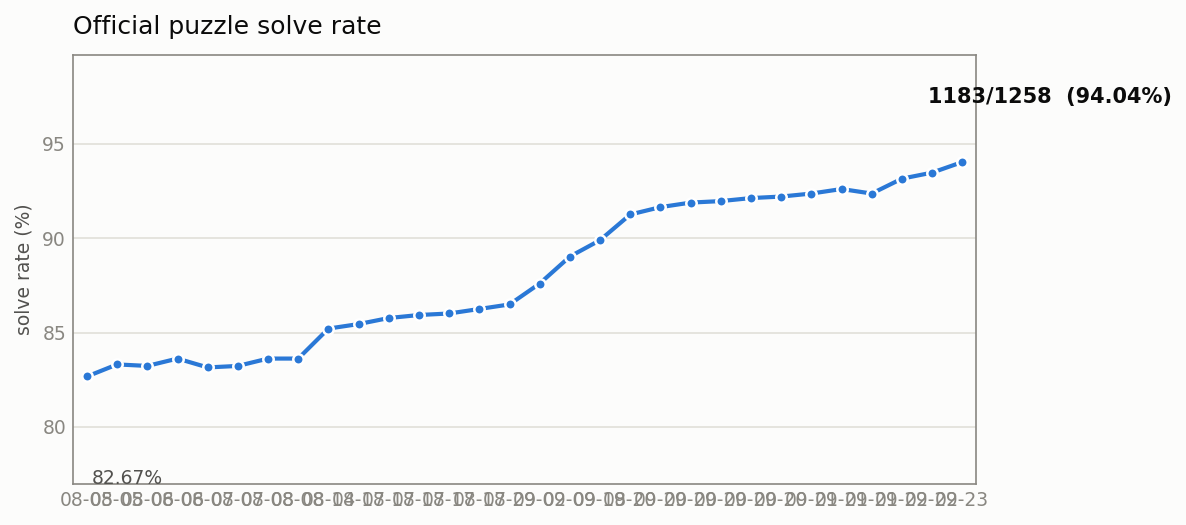
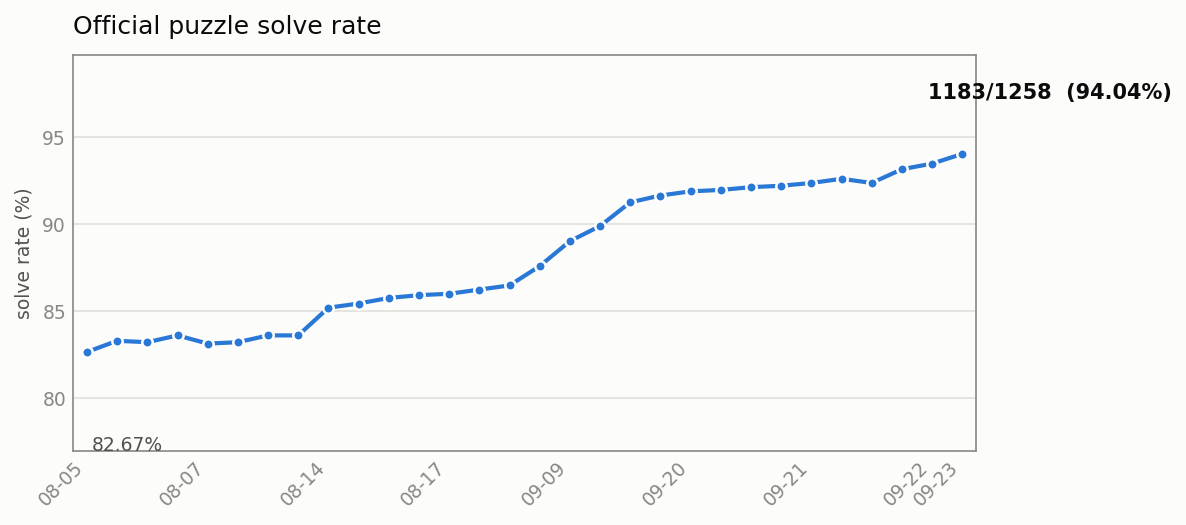
chore(solver-history): 进度图横坐标标签抽稀
数据点达 30 个后 x 轴日期挤成一团。PNG 侧抽稀至 ~8 个刻度（+末点保留）并
45° 旋转；SVG/趋势页同理抽稀至 ~10 个（hover 提示仍逐点显示完整日期）。
重渲染 docs/solver-history.png 与 web/public/trend/index.html。

Changed region(s): [[0.0, 0.2438, 0.8111, 0.701], [0.0312, 0.701, 0.8423, 0.9752], [0.7799, 0.1524, 0.9983, 0.2133]]

diff --git a/web/public/trend/index.html b/web/public/trend/index.html
@@ -91,12 +91,10 @@ a { color: var(--series); }
 <title>2026-08-05  4733f59
 1048/1258  (83.31%)</title>
 </circle>
-<text class="axis" x="86.1" y="366" text-anchor="middle">08-05</text>
 <circle class="point" cx="112.1" cy="265.8" r="4.5">
 <title>2026-08-06  7e569e7
 1047/1258  (83.23%)</title>
 </circle>
-<text class="axis" x="112.1" y="366" text-anchor="middle">08-06</text>
 <circle class="point" cx="138.2" cy="259.4" r="4.5">
 <title>2026-08-06  dfadfe3
 1052/1258  (83.62%)</title>
@@ -106,12 +104,10 @@ a { color: var(--series); }
 <title>2026-08-07  6169df3
 1046/1258  (83.15%)</title>
 </circle>
-<text class="axis" x="164.3" y="366" text-anchor="middle">08-07</text>
 <circle class="point" cx="190.3" cy="265.8" r="4.5">
 <title>2026-08-07  cd40cab
 1047/1258  (83.23%)</title>
 </circle>
-<text class="axis" x="190.3" y="366" text-anchor="middle">08-07</text>
 <circle class="point" cx="216.4" cy="259.4" r="4.5">
 <title>2026-08-08  bd2f5f5
 1052/1258  (83.62%)</title>
@@ -121,12 +117,10 @@ a { color: var(--series); }
 <title>2026-08-08  shape-cap-aog
 1052/1258  (83.62%)</title>
 </circle>
-<text class="axis" x="242.5" y="366" text-anchor="middle">08-08</text>
 <circle class="point" cx="268.6" cy="233.4" r="4.5">
 <title>2026-08-14  edge-csp-solver
 1072/1258  (85.21%)</title>
 </circle>
-<text class="axis" x="268.6" y="366" text-anchor="middle">08-14</text>
 <circle class="point" cx="294.6" cy="229.5" r="4.5">
 <title>2026-08-17  8758659
 1075/1258  (85.45%)</title>
@@ -136,12 +130,10 @@ a { color: var(--series); }
 <title>2026-08-17  dbe2f65
 1079/1258  (85.77%)</title>
 </circle>
-<text class="axis" x="320.7" y="366" text-anchor="middle">08-17</text>
 <circle class="point" cx="346.8" cy="221.6" r="4.5">
 <title>2026-08-17  04ea400
 1081/1258  (85.93%)</title>
 </circle>
-<text class="axis" x="346.8" y="366" text-anchor="middle">08-17</text>
 <circle class="point" cx="372.8" cy="220.3" r="4.5">
 <title>2026-08-17  d3d9c52
 1082/1258  (86.01%)</title>
@@ -151,12 +143,10 @@ a { color: var(--series); }
 <title>2026-08-17  150005f
 1085/1258  (86.25%)</title>
 </circle>
-<text class="axis" x="398.9" y="366" text-anchor="middle">08-17</text>
 <circle class="point" cx="425.0" cy="212.5" r="4.5">
 <title>2026-08-29  4be9922
 1088/1258  (86.49%)</title>
 </circle>
-<text class="axis" x="425.0" y="366" text-anchor="middle">08-29</text>
 <circle class="point" cx="451.0" cy="194.3" r="4.5">
 <title>2026-09-02  c10e181
 1102/1258  (87.60%)</title>
@@ -166,12 +156,10 @@ a { color: var(--series); }
 <title>2026-09-09  a04a4ad
 1120/1258  (89.03%)</title>
 </circle>
-<text class="axis" x="477.1" y="366" text-anchor="middle">09-09</text>
 <circle class="point" cx="503.2" cy="156.7" r="4.5">
 <title>2026-09-18  3444bec
 1131/1258  (89.90%)</title>
 </circle>
-<text class="axis" x="503.2" y="366" text-anchor="middle">09-18</text>
 <circle class="point" cx="529.2" cy="134.5" r="4.5">
 <title>2026-09-20  804b88c
 1148/1258  (91.26%)</title>
@@ -181,12 +169,10 @@ a { color: var(--series); }
 <title>2026-09-20  7ef7fc4
 1153/1258  (91.65%)</title>
 </circle>
-<text class="axis" x="555.3" y="366" text-anchor="middle">09-20</text>
 <circle class="point" cx="581.4" cy="124.2" r="4.5">
 <title>2026-09-20  d80e16d
 1156/1258  (91.89%)</title>
 </circle>
-<text class="axis" x="581.4" y="366" text-anchor="middle">09-20</text>
 <circle class="point" cx="607.4" cy="122.9" r="4.5">
 <title>2026-09-20  7f1848b
 1157/1258  (91.97%)</title>
@@ -196,12 +182,10 @@ a { color: var(--series); }
 <title>2026-09-20  eaab1c1
 1159/1258  (92.13%)</title>
 </circle>
-<text class="axis" x="633.5" y="366" text-anchor="middle">09-20</text>
 <circle class="point" cx="659.6" cy="119.0" r="4.5">
 <title>2026-09-20  0d326d2
 1160/1258  (92.21%)</title>
 </circle>
-<text class="axis" x="659.6" y="366" text-anchor="middle">09-20</text>
 <circle class="point" cx="685.7" cy="116.4" r="4.5">
 <title>2026-09-21  2785b59
 1162/1258  (92.37%)</title>
@@ -211,12 +195,10 @@ a { color: var(--series); }
 <title>2026-09-21  416c963
 1165/1258  (92.61%)</title>
 </circle>
-<text class="axis" x="711.7" y="366" text-anchor="middle">09-21</text>
 <circle class="point" cx="737.8" cy="116.4" r="4.5">
 <title>2026-09-21  56b5d56
 1162/1258  (92.37%)</title>
 </circle>
-<text class="axis" x="737.8" y="366" text-anchor="middle">09-21</text>
 <circle class="point" cx="763.9" cy="103.4" r="4.5">
 <title>2026-09-22  e5d68a8
 1172/1258  (93.16%)</title>
@@ -226,7 +208,6 @@ a { color: var(--series); }
 <title>2026-09-22  c457981
 1176/1258  (93.48%)</title>
 </circle>
-<text class="axis" x="789.9" y="366" text-anchor="middle">09-22</text>
 <circle class="point" cx="816.0" cy="89.1" r="4.5">
 <title>2026-09-23  4a81357
 1183/1258  (94.04%)</title>

diff --git a/scripts/solver_history.py b/scripts/solver_history.py
@@ -243,8 +243,22 @@ def _render_png(data: dict, png_path: Path) -> None:
     ax.set_ylim(lo - pad, hi + pad)
     ax.set_xlim(-0.45, len(hist) - 0.55)
 
-    ax.set_xticks(xs)
-    ax.set_xticklabels([p["date"][5:] for p in hist], color=muted, fontsize=9)
+    # X labels thin out as history grows (30+ points crowd illegibly): show at
+    # most ~8 evenly spaced dates plus always the latest point, rotated for
+    # readability.
+    n = len(hist)
+    step = max(1, (n + 7) // 8)
+    tick_idx = [i for i in range(n) if i % step == 0]
+    if tick_idx[-1] != n - 1:
+        tick_idx.append(n - 1)
+    ax.set_xticks([xs[i] for i in tick_idx])
+    ax.set_xticklabels(
+        [hist[i]["date"][5:] for i in tick_idx],
+        color=muted,
+        fontsize=9,
+        rotation=45,
+        ha="right",
+    )
     ax.yaxis.grid(True, color=grid, linewidth=0.8)
     ax.xaxis.grid(False)
     for s in ax.spines.values():
@@ -322,10 +336,13 @@ def _svg_chart(hist: list[dict]) -> str:
         parts.append(f'<circle class="point" cx="{px:.1f}" cy="{py:.1f}" r="4.5">')
         parts.append(f"<title>{label}</title>")
         parts.append("</circle>")
-        parts.append(
-            f'<text class="axis" x="{px:.1f}" y="{h - 14}" '
-            f'text-anchor="middle">{p["date"][5:]}</text>'
-        )
+        # Thin x labels (hover tooltip still shows every point's date).
+        step = max(1, (len(hist) + 9) // 10)
+        if i % step == 0 or i == len(hist) - 1:
+            parts.append(
+                f'<text class="axis" x="{px:.1f}" y="{h - 14}" '
+                f'text-anchor="middle">{p["date"][5:]}</text>'
+            )
 
     # hover 十字线 + 提示框（JS 驱动）
     parts.append('<line class="crosshair" id="crosshair" y1="0" y2="0" visibility="hidden"/>')
